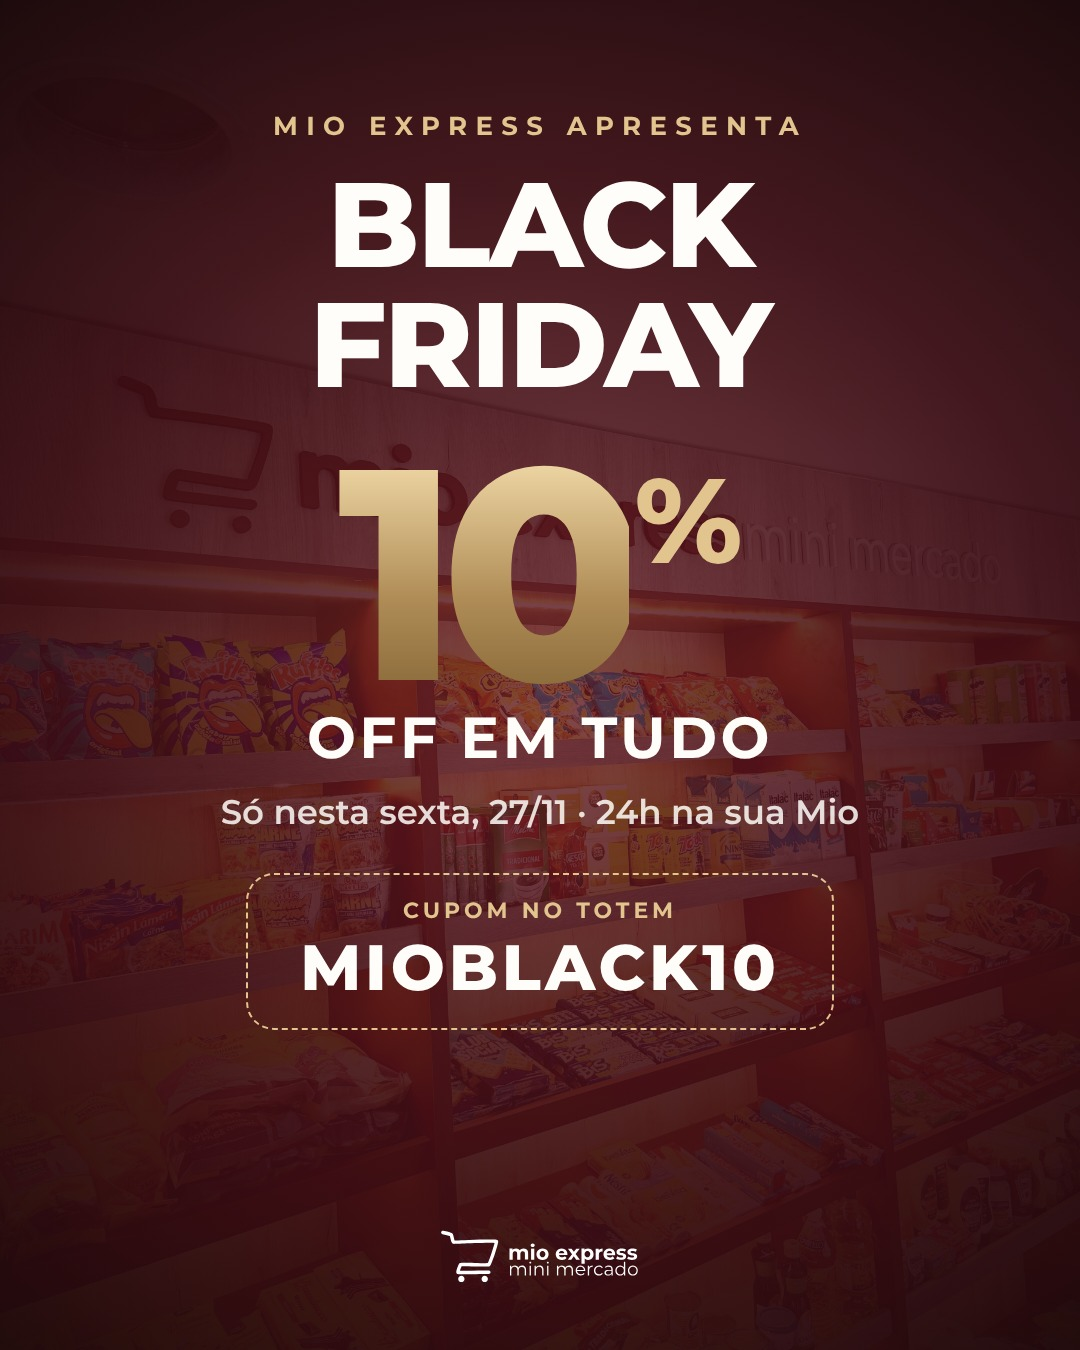
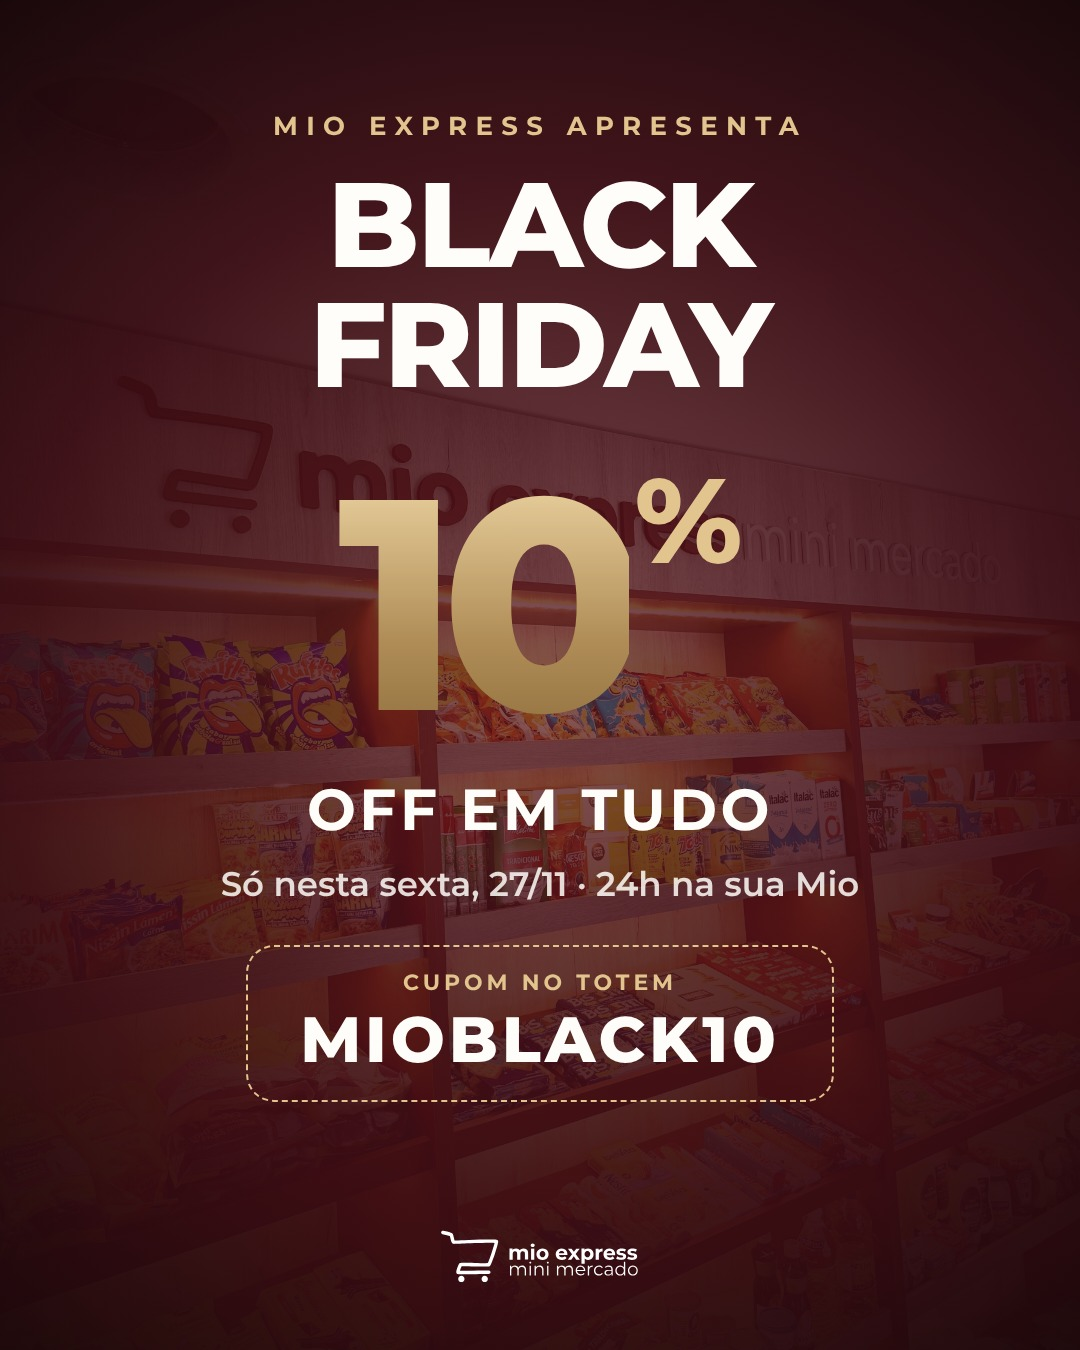
Black Friday: 10 sem corte, fundo mais escuro
Claude-Session: https://claude.ai/code/session_01CwP1brNtxaKT1mUQXiiAjA

Changed region(s): [[0.2139, 0.3422, 0.7944, 0.8089]]

diff --git a/marketing/posts/14-black-friday/.slide.html b/marketing/posts/14-black-friday/.slide.html
@@ -42,11 +42,11 @@ p.lead { font-size: 38px; line-height: 1.35; font-weight: 500; opacity: .88; }
 .ft.baixo::after { background: linear-gradient(180deg, rgba(59,13,20,.5) 0%, rgba(59,13,20,0) 18%, rgba(59,13,20,0) 32%, rgba(59,13,20,.88) 52%, rgba(59,13,20,.97) 70%, #3b0d14 100%); }
 </style><body><div class="s" style="color:#fffdf9;background:#120709;align-items:center;text-align:center">
         <div style="position:absolute;inset:0;background:url(file:///home/user/mioexpress-site/assets/source/fotos/loja3-letreiro.jpg) 50% 40%/cover;opacity:.55"></div>
-        <div style="position:absolute;inset:0;background:radial-gradient(ellipse 90% 70% at 50% 52%, rgba(122,31,43,.62) 0%, rgba(59,13,20,.9) 55%, #160809 100%)"></div>
+        <div style="position:absolute;inset:0;background:radial-gradient(ellipse 90% 70% at 50% 52%, rgba(122,31,43,.5) 0%, rgba(59,13,20,.93) 55%, #120608 100%)"></div>
         <div class="z" style="margin-top:20px"><p class="eyebrow" style="color:#e2c48f;letter-spacing:.32em">Mio Express apresenta</p>
         <p style="font-size:120px;font-weight:800;letter-spacing:-.02em;line-height:1;margin-top:22px">BLACK<br>FRIDAY</p></div>
         <div class="z" style="margin-top:46px;display:flex;align-items:flex-start;gap:6px;color:#e2c48f">
-          <span style="font-size:300px;font-weight:800;line-height:.82;letter-spacing:-.06em;background:linear-gradient(180deg,#f3dcaa 0%,#b08d57 60%,#8a6a3a 100%);-webkit-background-clip:text;color:transparent">10</span>
+          <span style="font-size:300px;font-weight:800;line-height:1.02;padding-bottom:.04em;letter-spacing:-.06em;background:linear-gradient(180deg,#f3dcaa 0%,#b08d57 60%,#8a6a3a 100%);-webkit-background-clip:text;color:transparent">10</span>
           <span style="font-size:120px;font-weight:800;line-height:1;margin-top:10px">%</span></div>
         <p class="z" style="font-size:58px;font-weight:700;margin-top:6px;letter-spacing:.06em">OFF EM TUDO</p>
         <p class="z" style="font-size:34px;font-weight:600;margin-top:18px;opacity:.85">Só nesta sexta, 27/11 · 24h na sua Mio</p>
